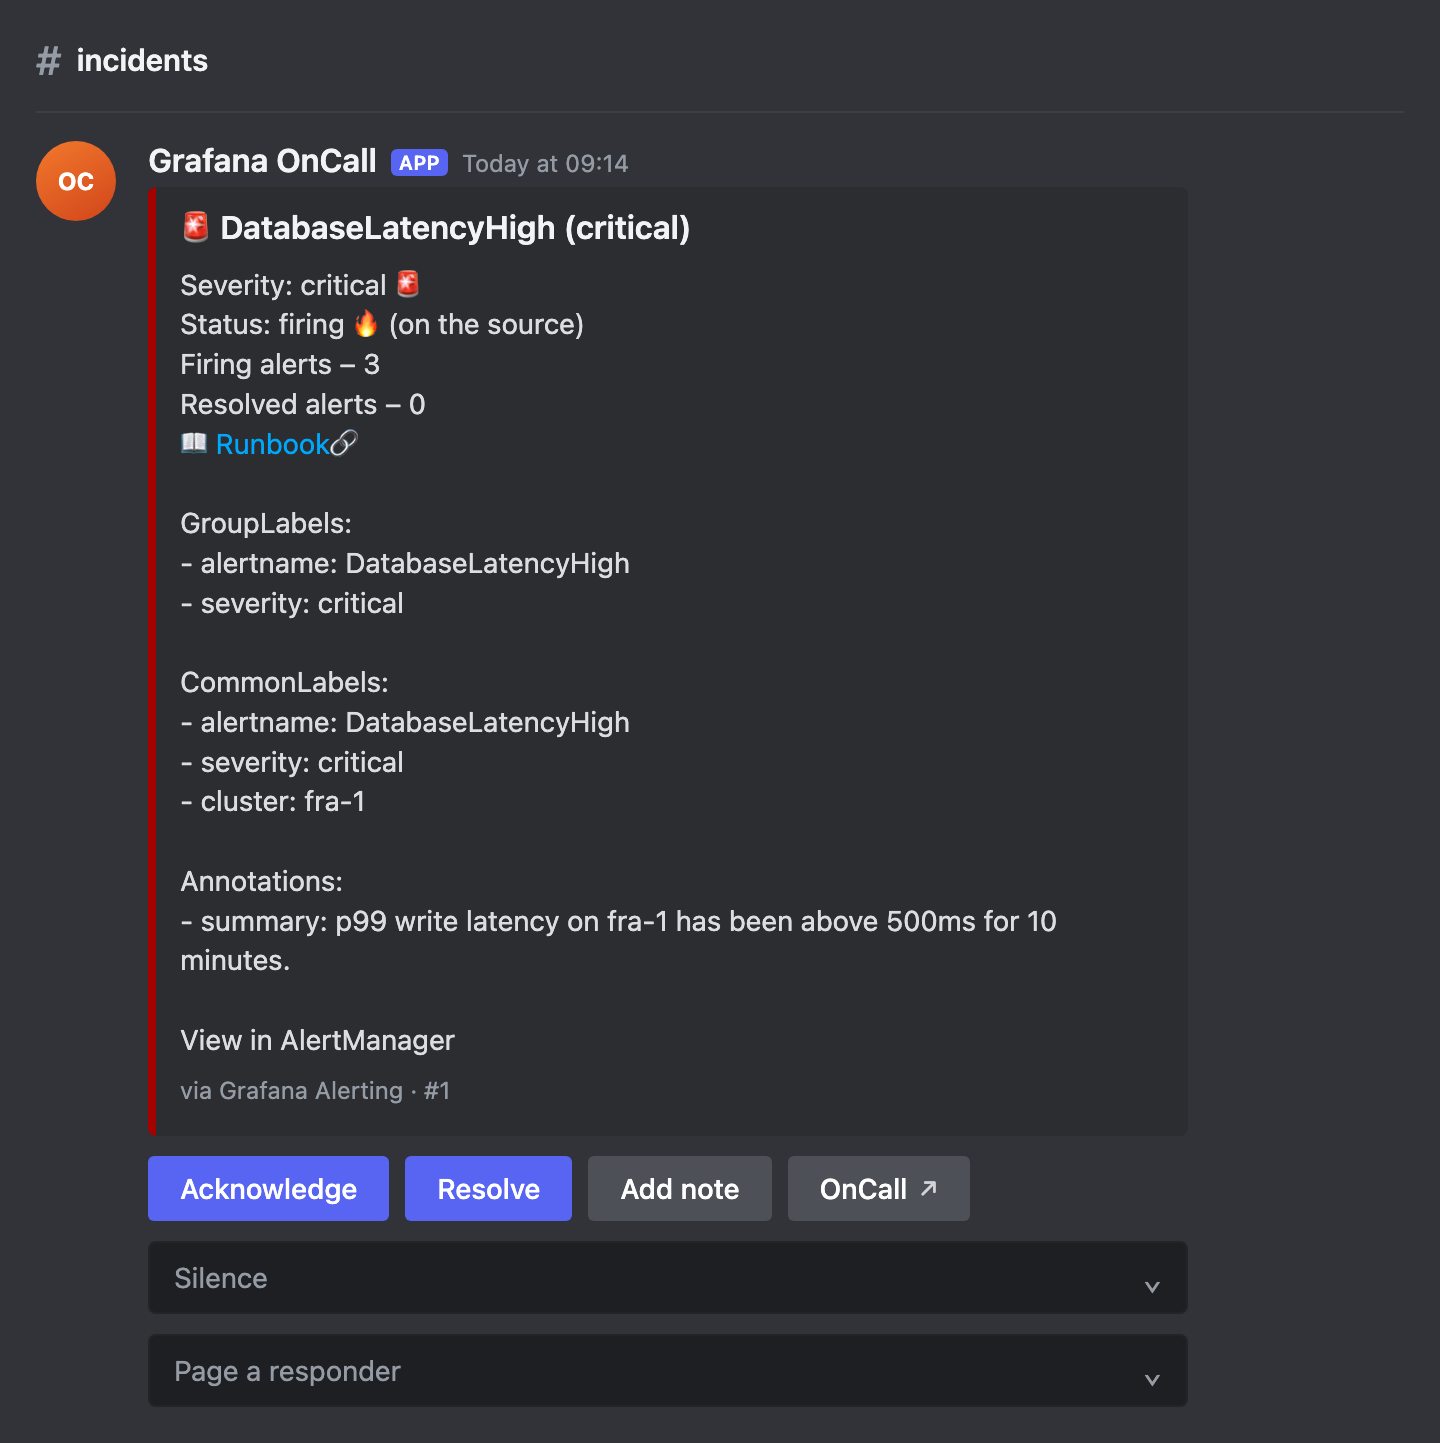
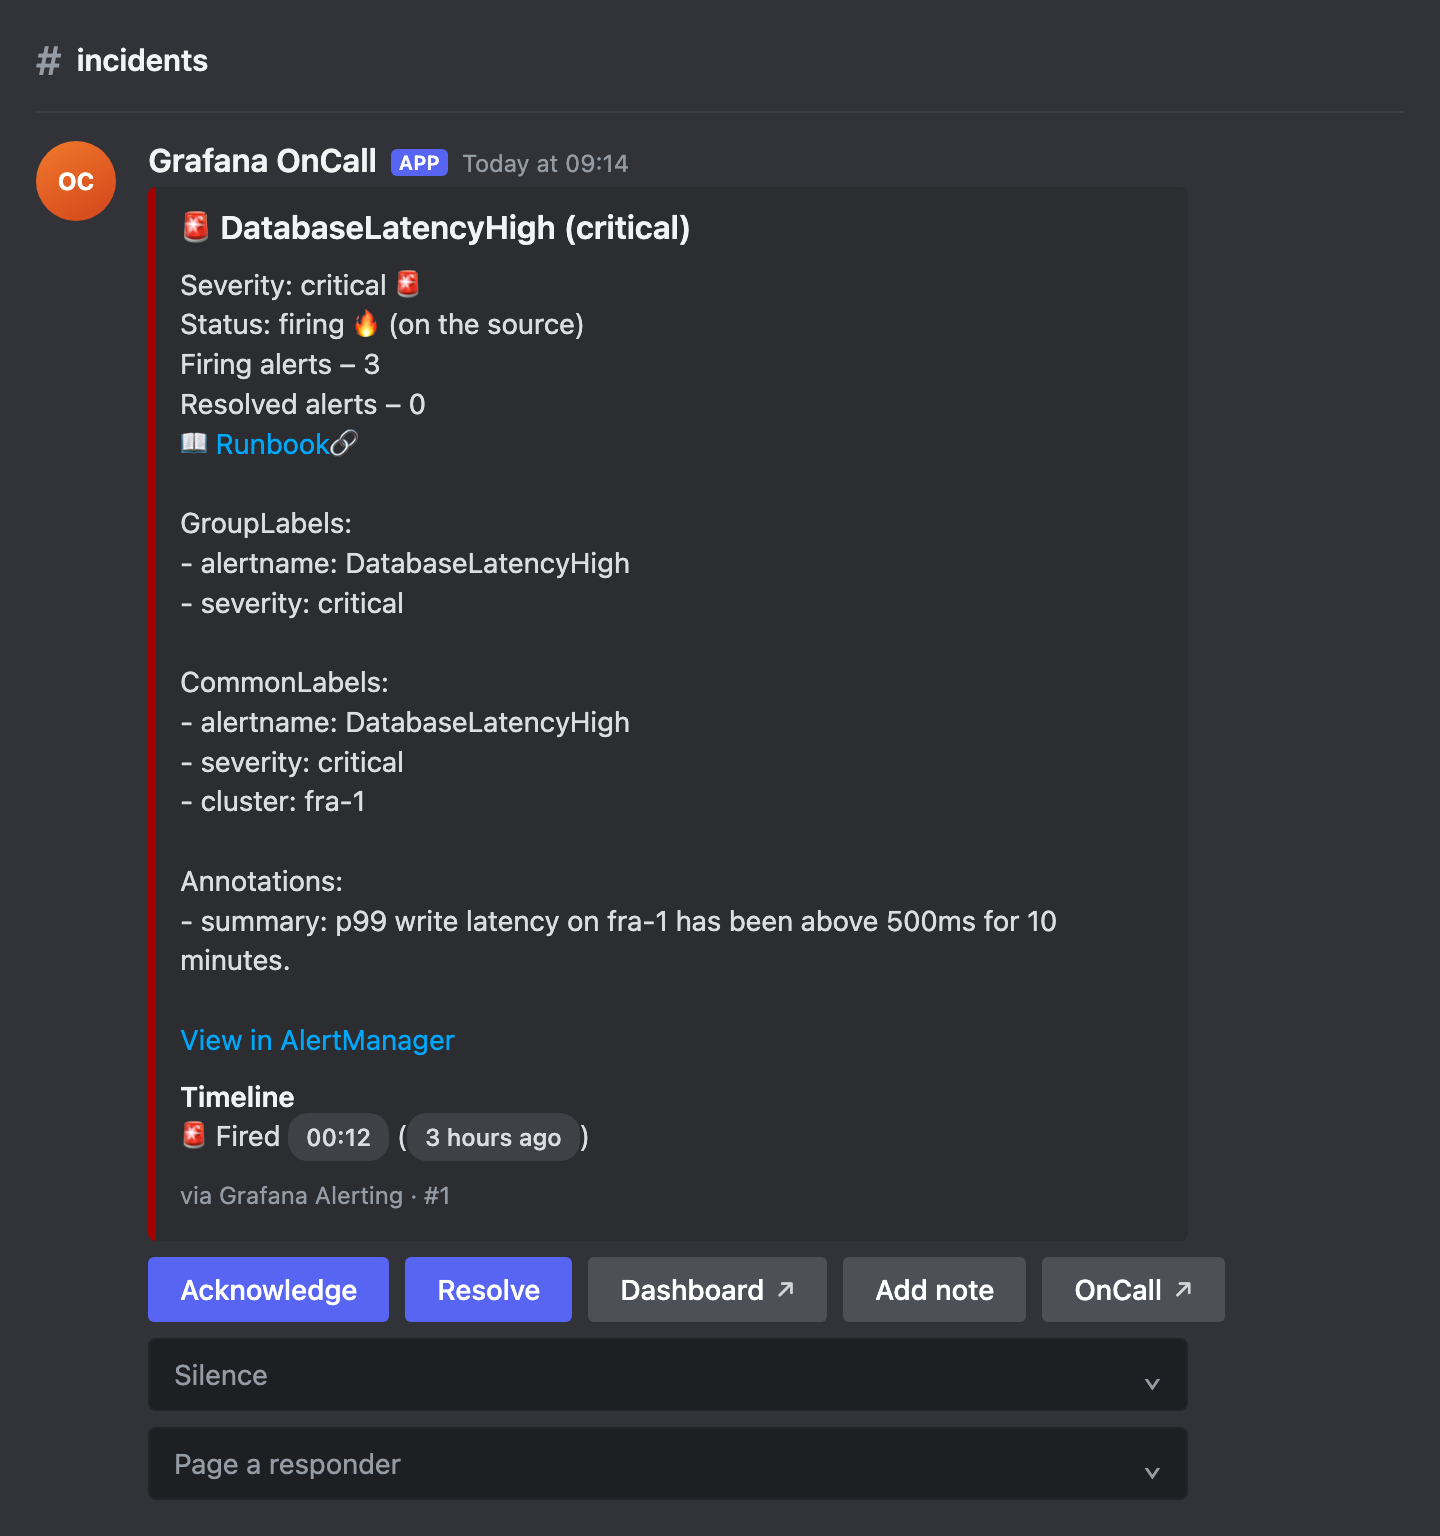
docs: screenshots of the card as it stands
Regenerated from the renderer's current output, so the timeline, the
dashboard button and the row split are in them, and the timestamps read
as an incident that ran for sixteen minutes rather than one that fired
and resolved in the same second the dump ran.

Adds a forum post and a role escalation, which had no picture at all.

Changed region(s): [[0.0312, 0.0936, 0.875, 0.9044], [0.125, 0.9356, 0.2812, 0.9667], [0.0312, 0.0312, 0.1562, 0.0624]]

diff --git a/docs/sources/manage/notify/discord/index.md b/docs/sources/manage/notify/discord/index.md
@@ -19,7 +19,7 @@ escalation chains and personal notification policies.
 
 At the moment, this integration is only available for OSS installations.
 
-![An alert group posted to Discord, with Acknowledge, Resolve and OnCall buttons](img/alert-firing.png)
+![An alert group posted to Discord, with its timeline and controls](img/alert-firing.png)
 
 The card carries the same controls Slack's does: acknowledge and resolve, a **Silence** menu of durations, a
 **Page a responder** menu that adds somebody to the escalation, and **Add note** for a resolution note. Where the
@@ -86,6 +86,8 @@ id and applies nothing.
 Nothing archives a post deliberately — Discord archives quiet posts on its own, and OnCall unarchives a post before
 editing it, so a reopened alert comes back to the active list by itself.
 
+![An alert group as a forum post, titled after the alert and tagged with its state](img/forum-post.png)
+
 The bot needs **Create Public Threads** and **Send Messages in Threads** in a forum, on top of the permissions above.
 
 ## Escalate to a role
@@ -94,7 +96,7 @@ A route can name a Discord role to shout at when OnCall escalates. Set **escalat
 id (Developer Mode → right-click the role → **Copy Role ID**). When an escalation chain reaches **Notify Whole
 Channel** or **Notify Group**, OnCall replies to the alert group's card mentioning that role:
 
-> **@Engineering** — this alert group is still unacknowledged.
+![An escalation replying to the card, mentioning a role](img/escalation-role.png)
 
 This is deliberately only the loud part. Reaching the right people is still the escalation chain's job, through
 their own notification policies, so that who gets woken respects who is actually on call. Nothing is posted if the
